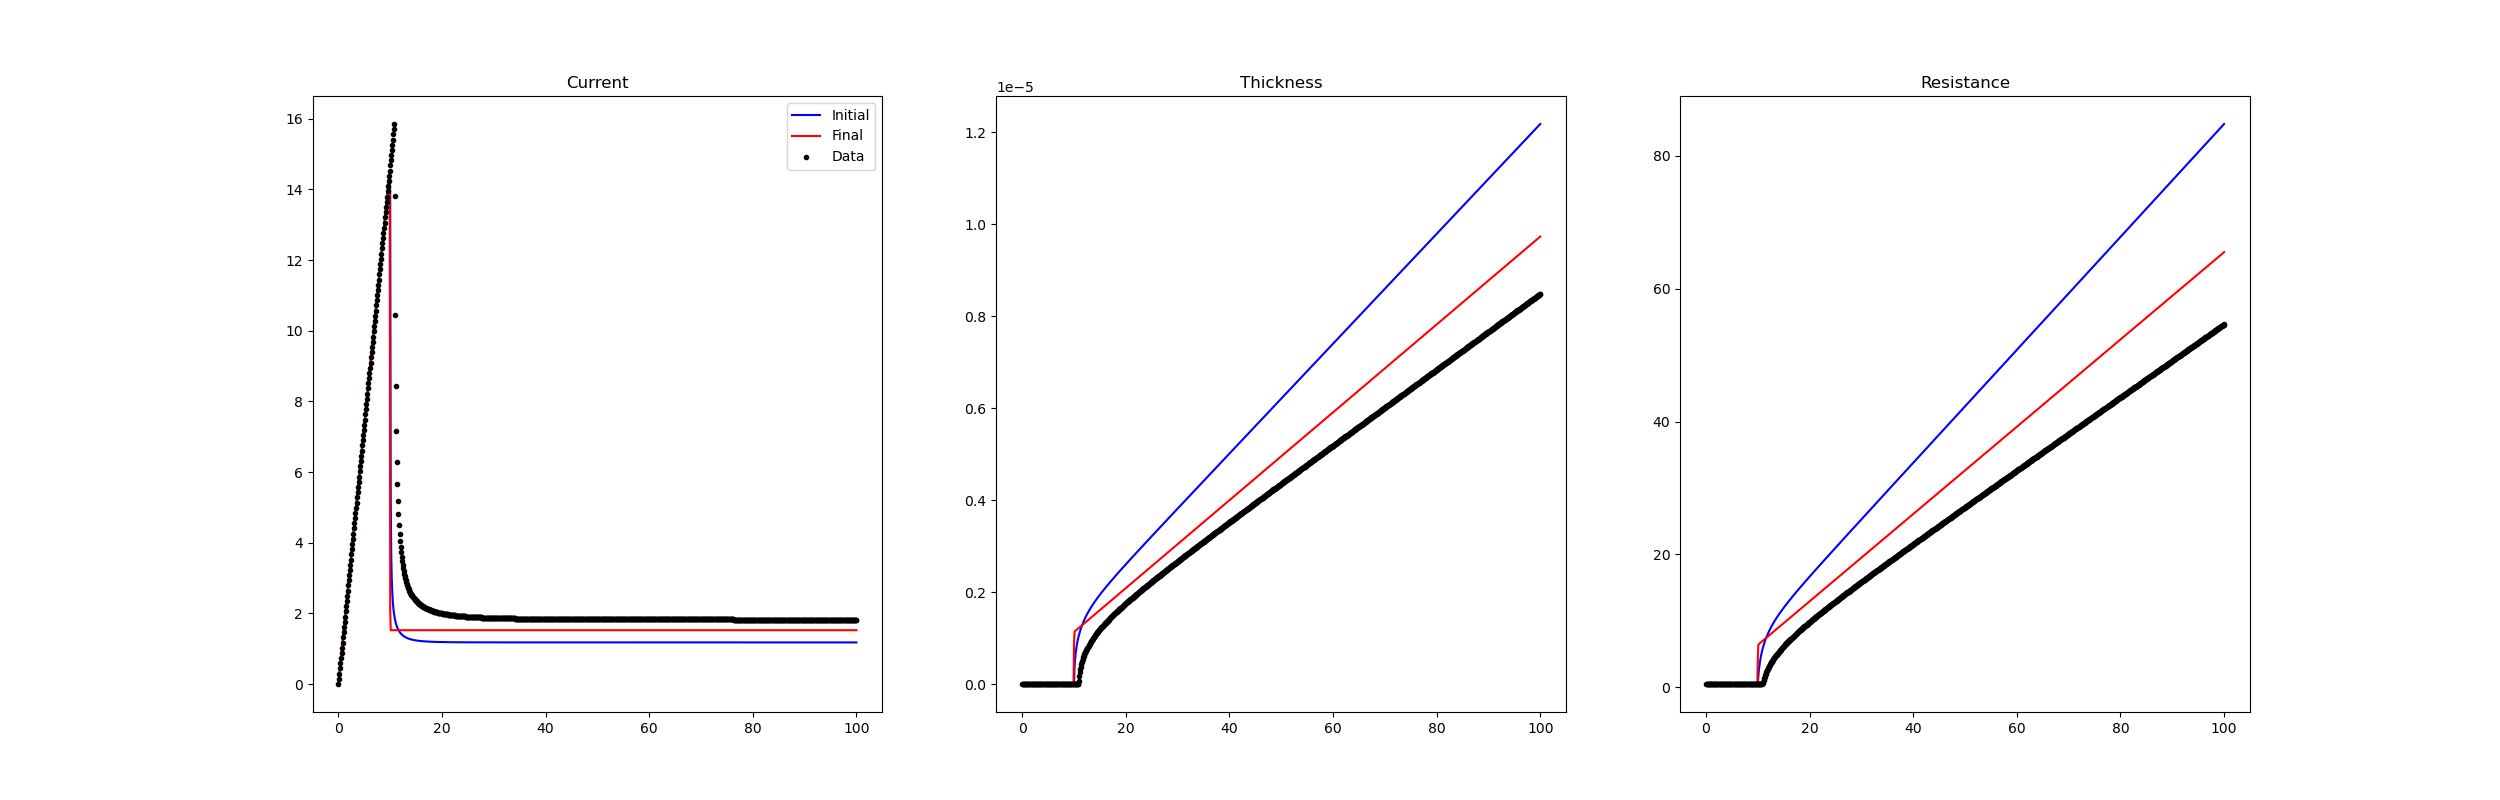
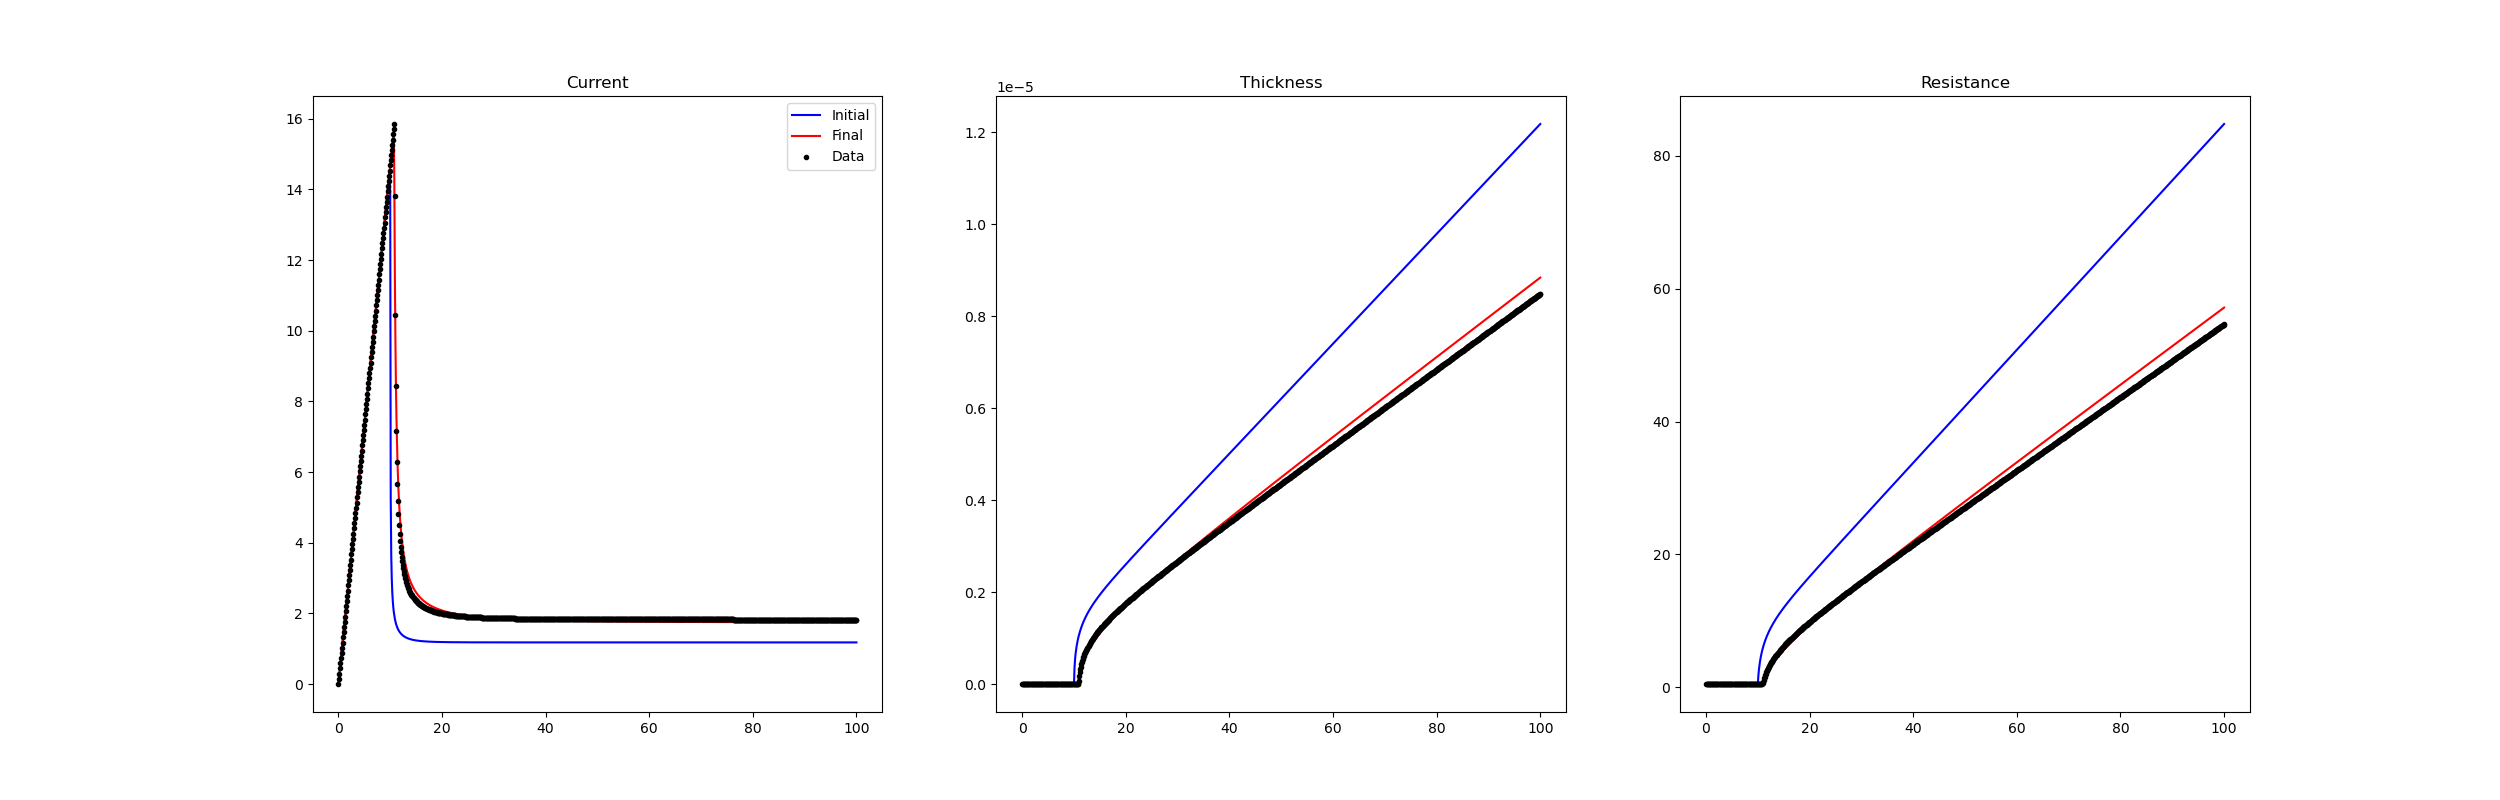
Experiment run

diff --git a/new/NEODE_all.py b/new/NEODE_all.py
@@ -46,12 +46,13 @@ class ECOAT(nn.Module):
                    torch.tensor([[R_film0], [R_film0]]).to(self.device),
                    torch.tensor([[0.], [0.]]).to(self.device),
                    torch.tensor([[0.], [0.]]).to(self.device),
-                   torch.tensor([[1, 0]]).to(self.device))
+                   torch.tensor([[1, 0]]).to(self.device),
+                   self.K)
 
     def forward(self, t, state):
         # w is the switch state
 
-        thk, res, bc_anode, Q, w = state
+        thk, res, bc_anode, Q, w, k = state
         bc_out = self.VR*(torch.zeros_like(bc_anode) + 1.)
         cur = self.Sigma * bc_anode / (self.Sigma * res + self.L)
         Q_out = cur
@@ -61,7 +62,7 @@ class ECOAT(nn.Module):
         '''
         thk_out = w[0, 0] * 0 + w[0, 1]*(10**(-self.logCv)*(cur - self.jmin))
         res_out = w[0, 0] * 0 + w[0, 1]*(10**(-self.logCv)*self.rho(cur)*(cur - self.jmin))
-        return thk_out, res_out, bc_out, Q_out, torch.zeros_like(w)
+        return thk_out, res_out, bc_out, Q_out, torch.zeros_like(w), torch.zeros_like(k)
 
     def rho(self, j):
         return 8e6*torch.exp(-0.1*j)
@@ -73,15 +74,15 @@ class ECOAT(nn.Module):
     def event(self, t, state):
         # if Q >= Qmin, we output zero or negative value. 
         #   Else output positive
-        thk, res, bc_anode, Q, w = state
-        Qmin = (81/(128*self.beta))**(1/3)*(self.K**(4/3))
+        thk, res, bc_anode, Q, w, k = state
+        Qmin = (81/(128*self.beta))**(1/3)*(k**(4/3))
         return Qmin - Q
 
     def update_state(self, t, state):
         # update the switch w
-        thk, res, bc_anode, Q, w = state
+        thk, res, bc_anode, Q, w, k = state
         w = torch.abs(w - 1) # differentiable binary switch
-        return (thk[-1, :, :], res[-1, :, :], bc_anode[-1, :, :], Q[-1, :, :], w[-1, :, :])
+        return (thk[-1, :, :], res[-1, :, :], bc_anode[-1, :, :], Q[-1, :, :], w[-1, :, :], k)
 
     def get_event_time(self, t0=0.):
         # get the event time
@@ -105,8 +106,8 @@ class ECOAT(nn.Module):
         y1 = self.update_state(0, out1)
         out2 = odeint(self, y1, tv2, method='scipy_solver', options={'solver': 'LSODA'})
 
-        thk1, res1, bc_anode1, _, _ = out1
-        thk2, res2, bc_anode2, _, _ = out2
+        thk1, res1, bc_anode1, _, _, _ = out1
+        thk2, res2, bc_anode2, _, _, _ = out2
         tv = torch.cat((tv1[:-1], tv2[1:]))
 
         #cur = torch.cat((cur1[:-1, :, :], cur2[1:, :, :]), dim=0)
@@ -144,12 +145,15 @@ epochs = 100
 
 loss_v = np.zeros((epochs, ))
 
+model.train()
+
 # train the model
 for epoch in range(epochs):
+    model.zero_grad()
 
     t, cur, res, thk, t_event = model.simulate(T)
 
-    loss = torch.mean((cur_data - cur[:, 0, 0])**2 + 100*(t_event-t_event_data)**2)
+    loss = torch.mean((cur_data - cur[:, 0, 0])**2) #torch.mean(100*(t_event-t_event_data)**2)#
     loss.backward()
 
     print("Epoch: ", epoch, " , Loss: ", loss)
